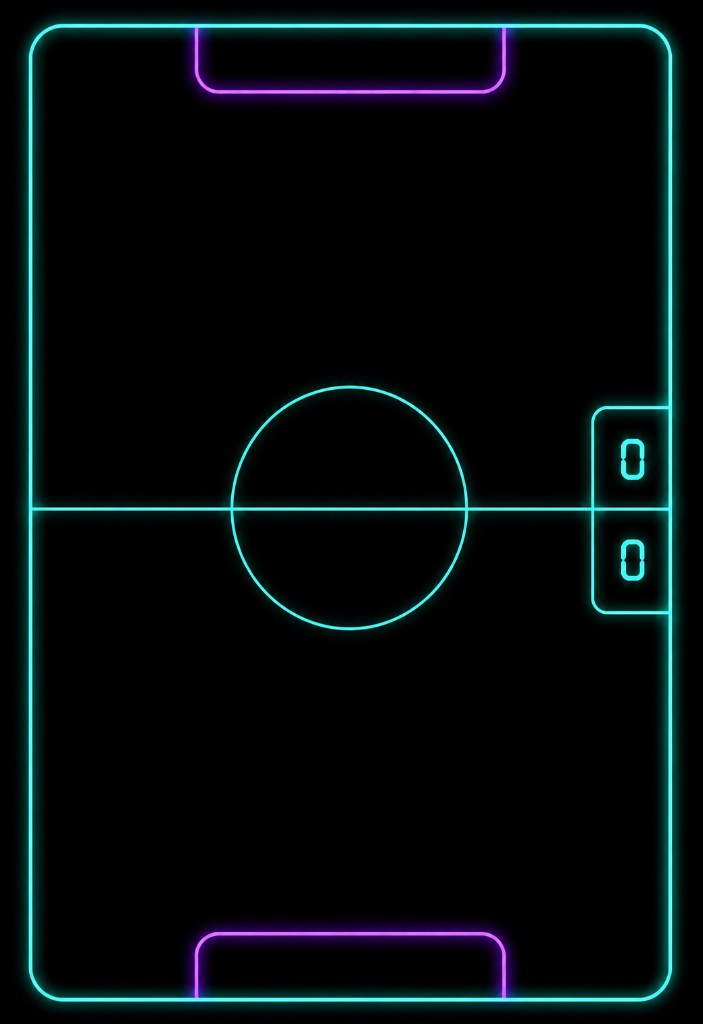
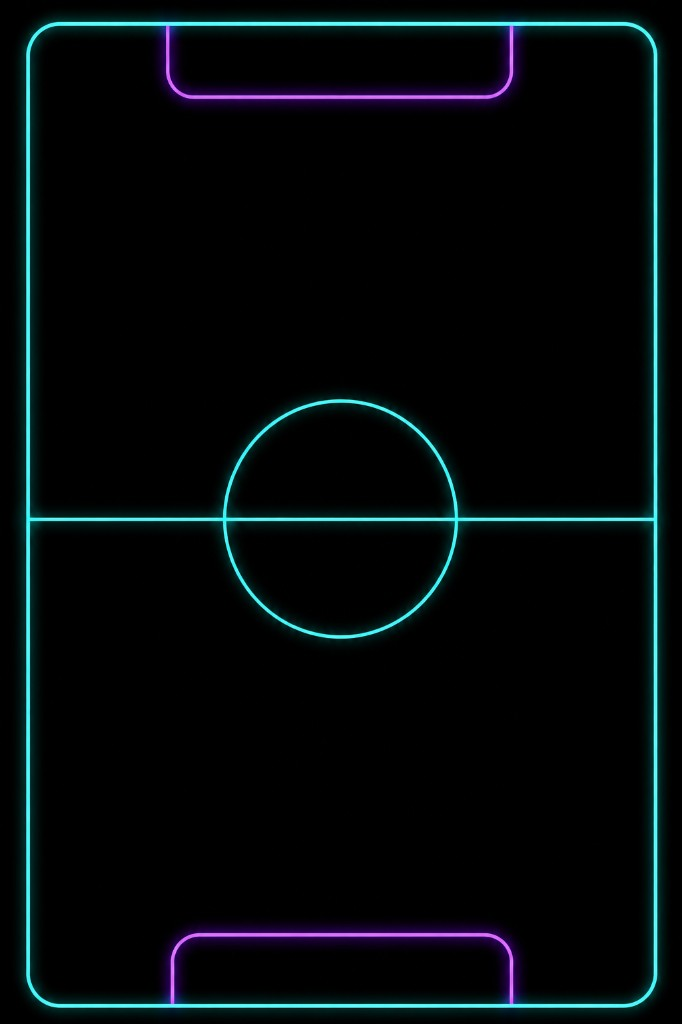
нормальные цифры

Changed region(s): [[0.0308, 0.0, 0.9853, 1.0]]

diff --git a/prototype/game_field.py b/prototype/game_field.py
@@ -25,14 +25,13 @@ FIELD_H = TOP_WALL - DOWN_WALL
 FIELDS_DIR = Path(__file__).resolve().parent.parent / "images" / "fields"
 NEON_VELOCITY_FIELD_FILE = "neon_velocity_field.png"
 
-# Области внутри мокапа 703×1024.
-NEON_MOCKUP_SIZE = (703, 1024)
-# Координаты игры — вся площадь внутри cyan-борта (включая зону у табло и ворот).
-NEON_COORD_NORM = (58 / 703, 58 / 1024, 613 / 703, 908 / 1024)
-# Счётные панели (скруглённые квадраты справа) — внутри neon-обводки, мокап 703×1024.
-NEON_SCORE_TOP_PANEL_NORM = (575 / 703, 80 / 1024, 86 / 703, 417 / 1024)
-NEON_SCORE_BOTTOM_PANEL_NORM = (575 / 703, 520 / 1024, 86 / 703, 429 / 1024)
-SCORE_PANEL_RADIUS_FRAC = 0.14
+# Области внутри мокапа 682×1024.
+NEON_MOCKUP_SIZE = (682, 1024)
+# Координаты игры — площадь внутри cyan-борта (те же отступы, что на старом мокапе).
+NEON_COORD_NORM = (56 / 682, 56 / 1024, 601 / 682, 916 / 1024)
+# Счётные панели — справа на поле (цифры рисуем поверх, без затемнения).
+NEON_SCORE_TOP_PANEL_NORM = (540 / 682, 80 / 1024, 83 / 682, 417 / 1024)
+NEON_SCORE_BOTTOM_PANEL_NORM = (540 / 682, 520 / 1024, 83 / 682, 429 / 1024)
 
 NEON_THEME = {
     "background": (0, 0, 0),
@@ -43,8 +42,30 @@ _neon_field_image: pygame.Surface | None = None
 _field_bg_cache: dict[tuple[int, int], tuple[pygame.Surface, pygame.Rect]] = {}
 _field_scene_cache: dict[tuple[int, int], tuple[pygame.Surface, "FieldTransform", tuple[pygame.Rect, pygame.Rect]]] = {}
 _score_overlay_cache: dict[tuple[int, int, int, int], pygame.Surface] = {}
-_score_font_cache: dict[int, pygame.font.Font] = {}
 _puck_surface_cache: dict[int, pygame.Surface] = {}
+
+# 7-segment LED: a=верх, b=верх-право, c=низ-право, d=низ, e=низ-лево, f=верх-лево, g=середина.
+_SEVEN_SEGMENT_ON: dict[str, str] = {
+    "0": "abcdef",
+    "1": "bc",
+    "2": "abdeg",
+    "3": "abcdg",
+    "4": "bcfg",
+    "5": "acdfg",
+    "6": "acdefg",
+    "7": "abc",
+    "8": "abcdefg",
+    "9": "abcdfg",
+}
+
+
+def reload_field_assets() -> None:
+    """Сброс кэша после замены images/fields/neon_velocity_field.png."""
+    global _neon_field_image
+    _neon_field_image = None
+    _field_bg_cache.clear()
+    _field_scene_cache.clear()
+    _score_overlay_cache.clear()
 
 
 def _load_neon_field_image() -> pygame.Surface:
@@ -73,29 +94,68 @@ def _score_panel_rects(dest: pygame.Rect) -> tuple[pygame.Rect, pygame.Rect]:
     return top, bottom
 
 
-def _score_font(cell_rect: pygame.Rect, value: int) -> pygame.font.Font:
-    digits = len(str(value))
-    base = min(cell_rect.w, cell_rect.h) * (0.48 if digits == 1 else 0.36)
-    size = max(18, int(base))
-    font = _score_font_cache.get(size)
-    if font is None:
-        font = pygame.font.SysFont("arial", size, bold=True)
-        _score_font_cache[size] = font
-    return font
+def _segment_rects(digit_w: int, digit_h: int, thick: int) -> dict[str, pygame.Rect]:
+    gap = max(1, thick // 3)
+    inner_w = max(thick, digit_w - 2 * (thick + gap))
+    half_h = digit_h // 2
+    inner_h = max(thick, half_h - thick - gap)
+    return {
+        "a": pygame.Rect(thick + gap, 0, inner_w, thick),
+        "d": pygame.Rect(thick + gap, digit_h - thick, inner_w, thick),
+        "g": pygame.Rect(thick + gap, half_h - thick // 2, inner_w, thick),
+        "f": pygame.Rect(0, thick + gap, thick, inner_h),
+        "b": pygame.Rect(digit_w - thick, thick + gap, thick, inner_h),
+        "e": pygame.Rect(0, half_h + gap, thick, inner_h),
+        "c": pygame.Rect(digit_w - thick, half_h + gap, thick, inner_h),
+    }
+
+
+def _draw_neon_segment(surf: pygame.Surface, rect: pygame.Rect, color: tuple[int, int, int]) -> None:
+    r, g, b = color
+    pad = 6
+    layer = pygame.Surface((rect.w + pad * 2, rect.h + pad * 2), pygame.SRCALPHA)
+    local = pygame.Rect(pad, pad, rect.w, rect.h)
+    radius = max(1, min(local.w, local.h) // 3)
+    for spread, alpha in ((4, 40), (2, 100), (0, 255)):
+        glow = local.inflate(spread * 2, spread * 2)
+        tone = (
+            min(255, r + (40 if spread == 0 else 0)),
+            min(255, g + (40 if spread == 0 else 0)),
+            255,
+            alpha,
+        )
+        pygame.draw.rect(layer, tone, glow, border_radius=radius + spread // 2)
+    surf.blit(layer, (rect.x - pad, rect.y - pad))
+
+
+def _draw_digital_number(
+    surf: pygame.Surface,
+    panel: pygame.Rect,
+    value: int,
+    color: tuple[int, int, int],
+) -> None:
+    text = str(value)
+    digit_h = max(12, int(panel.h * 0.58))
+    digit_w = max(8, int(digit_h * 0.52))
+    gap = max(2, int(digit_w * 0.2))
+    thick = max(2, int(digit_h * 0.1))
+    total_w = len(text) * digit_w + max(0, len(text) - 1) * gap
+    start_x = panel.centerx - total_w // 2
+    start_y = panel.centery - digit_h // 2
+
+    for index, char in enumerate(text):
+        segments_on = _SEVEN_SEGMENT_ON.get(char)
+        if segments_on is None:
+            continue
+        origin_x = start_x + index * (digit_w + gap)
+        for name, seg in _segment_rects(digit_w, digit_h, thick).items():
+            if name in segments_on:
+                _draw_neon_segment(surf, seg.move(origin_x, start_y), color)
 
 
 def _draw_score_in_panel(surf: pygame.Surface, panel: pygame.Rect, value: int) -> None:
-    """Закрывает «0» на мокапе и рисует счёт по центру скруглённой панели."""
-    radius = max(6, int(min(panel.w, panel.h) * SCORE_PANEL_RADIUS_FRAC))
-    patch = pygame.Surface((panel.w, panel.h), pygame.SRCALPHA)
-    pygame.draw.rect(patch, (0, 0, 0, 235), patch.get_rect(), border_radius=radius)
-    surf.blit(patch, panel.topleft)
-
-    text = _score_font(panel, value).render(str(value), True, NEON_THEME["score_text"])
-    surf.blit(
-        text,
-        (panel.centerx - text.get_width() // 2, panel.centery - text.get_height() // 2),
-    )
+    """LED-цифры по центру панели табло (без затемнения фона)."""
+    _draw_digital_number(surf, panel, value, NEON_THEME["score_text"])
 
 
 def _norm_rect(dest: pygame.Rect, norm: tuple[float, float, float, float]) -> pygame.Rect: